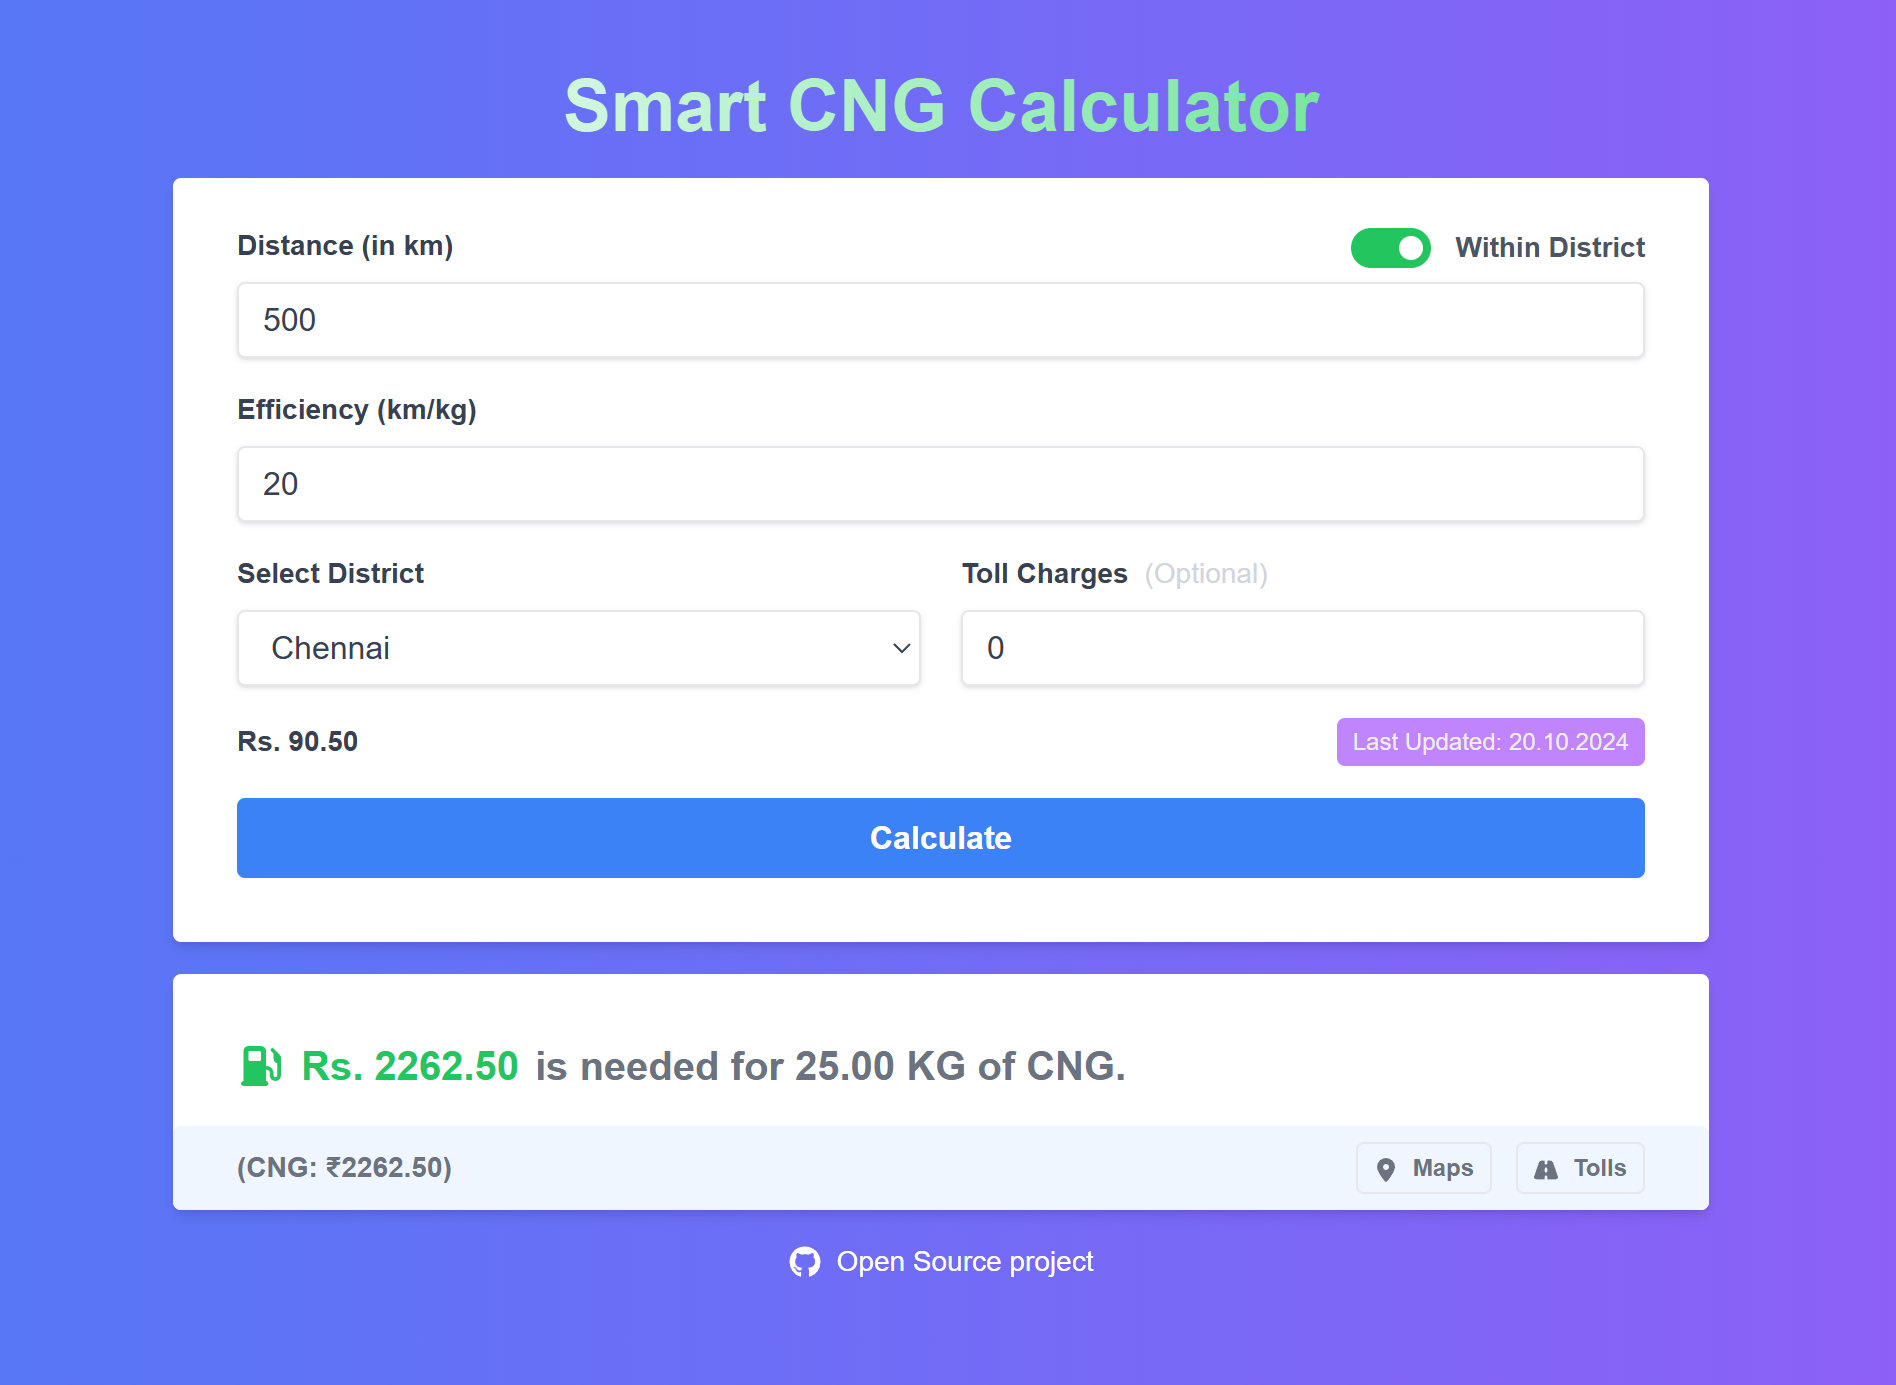
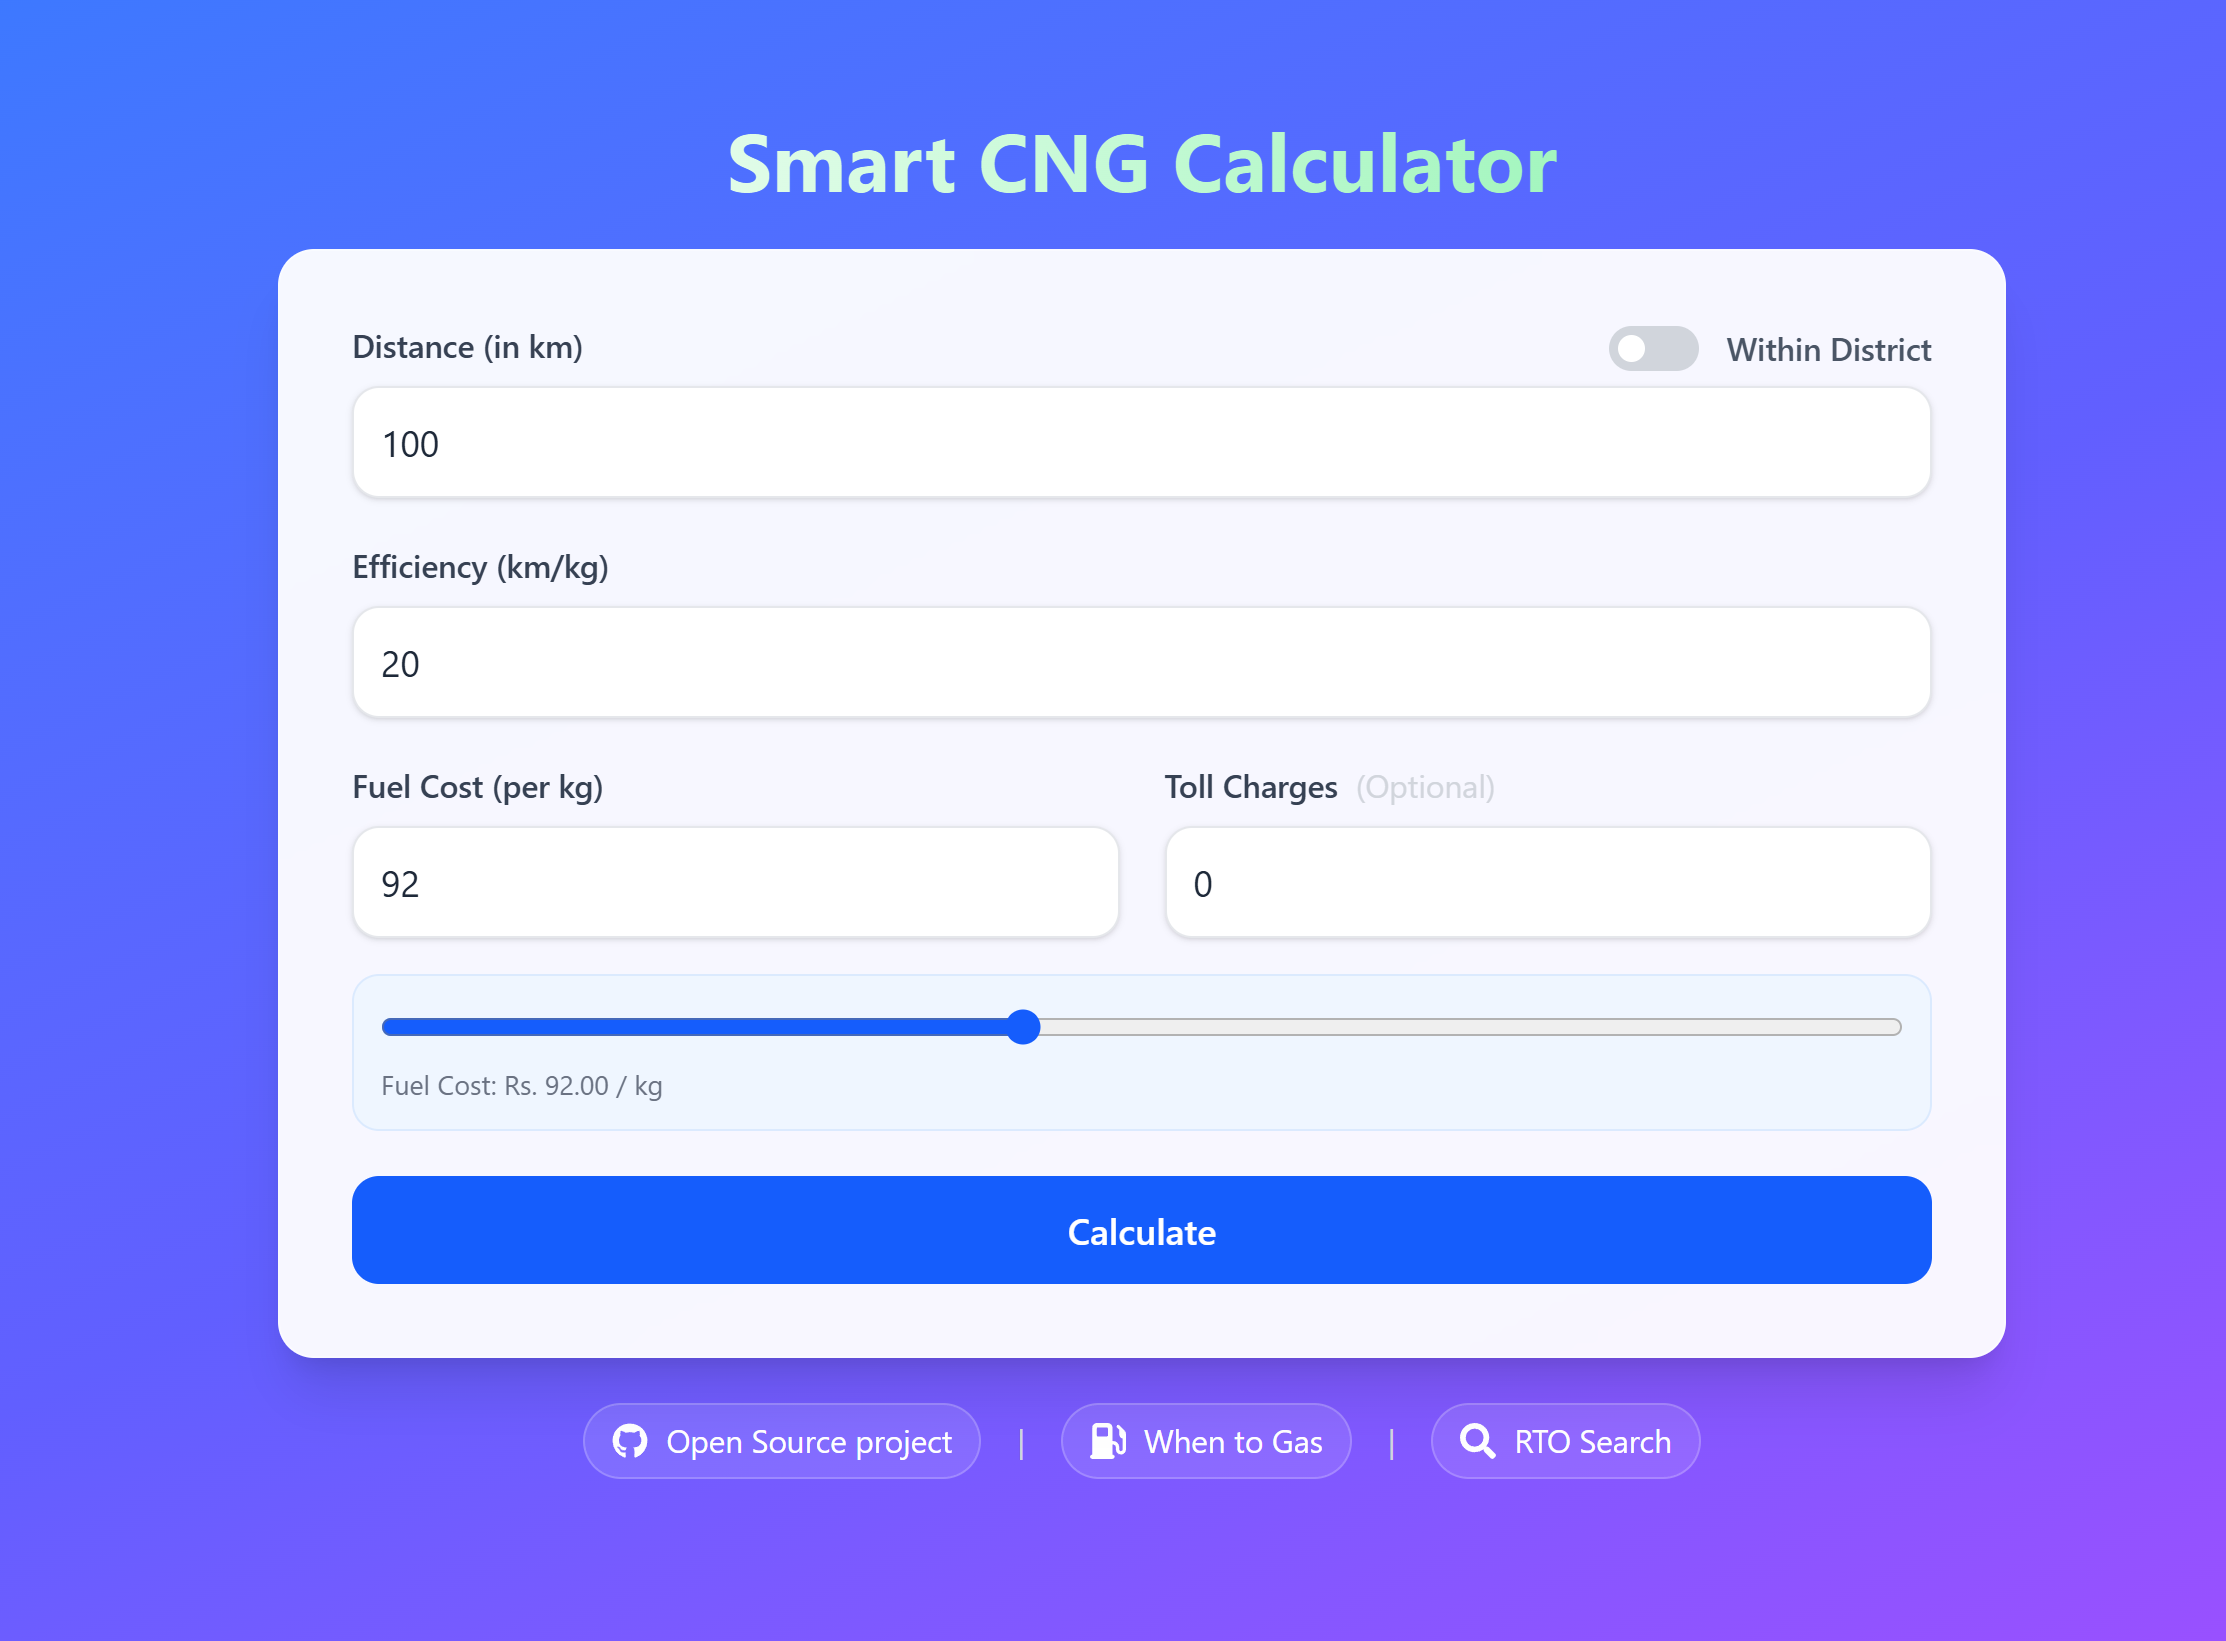
feat(readme): update core features and setup instructions
- Enhance core features section with detailed descriptions
- Revise setup instructions for clarity
- Add prerequisites and development commands

diff --git a/README.md b/README.md
@@ -1,46 +1,117 @@
 # Smart CNG Calculator
 
-Calculate your fuel efficiency easily with single click. It automates the purpose of grabing CNG cost. The application also provides a feature to select the district, which can further refine the cost calculation.
+Modern App to estimate travel fuel cost using live CNG rates, district/provider lookup, toll add-ons, and utility tools like **When to Gas** and **RTO Search**.
+
+> ### Project Live: https://smart-cng.vercel.app
 
 ## Screenshots
 
-![Screenshot 1](./screenshots/smart-cng.png)
-_Find it in seconds_
+![Main App](./screenshots/smart-cng.png)
 
-## Getting Started
+## Core Features
 
-First, run the development server:
+### Smart CNG Calculator (`/`)
+
+- Distance + efficiency based trip cost calculation
+- Toll charge support (optional)
+- Two modes:
+  - Manual fuel cost input
+  - District-based fuel cost fetch from provider APIs
+- Live provider rate lookup for:
+  - Torrent Gas
+  - AG&P (Think Gas)
+  - Megha Gas
+- Provider fetch fallback handling:
+  - If provider value is missing/invalid, app falls back to average cost (`93`)
+  - User sees a clear fallback notice in UI
+
+### When to Gas (`/when-to-gas`)
+
+- Interactive CNG point/range estimator
+- Bunk selection with "next optimal bunk" guidance
+- Distance/status visualization (Optimal Range / Too Far / Too Close)
+- One-click map navigation for bunks
+
+### RTO Search (`/rto-search`)
+
+- Modern searchable RTO directory UI
+- Search by code, city, area, office text (e.g. `TN12`, `KA-41`, city names)
+- State filter + **All States** aggregation mode
+- Supported datasets currently included:
+  - Tamil Nadu
+  - Karnataka
+  - Kerala
+  - Telangana
+  - Andhra Pradesh
+
+## API Routes
+
+### `GET /api/districts`
+
+- Reads district/provider mapping from `public/data/districts.json`
+- Returns district data used by calculator dropdown
+
+### `GET /api/cng-cost?provider=<encoded-json>`
+
+- Accepts an encoded district object containing provider + station ID
+- Fetches and parses live provider data
+- Provider-specific parsing includes:
+  - Rate extraction
+  - Last updated date (when available)
+
+## Tech Stack
+
+- Next.js (App Router)
+- React + TypeScript
+- Tailwind CSS
+- Axios + Cheerio (provider page scraping/parsing)
+
+## Setup & Run
+
+### Prerequisites
+
+- Node.js 18+ (recommended)
+- npm / pnpm / yarn / bun
+
+### Install
+
+```bash
+npm install
+```
+
+### Development
 
 ```bash
 npm run dev
-# or
-yarn dev
-# or
-pnpm dev
-# or
-bun dev
 ```
 
-Open [http://localhost:3000](http://localhost:3000) with your browser to see the result.
+Open: [http://localhost:3000](http://localhost:3000)
 
-## Features
+### Production Build
 
-- CNG/Fuel Calculation
-- Calculate the Toll charges (if given)
-- Get the CNG cost based on the district. (Supported: TorrentGas)
+```bash
+npm run build
+npm run start
+```
+
+### Lint
+
+```bash
+npm run lint
+```
+
+## Notes
+
+- Provider integrations rely on external website structure and may require parser/header updates if providers change markup.
+- SSL verification is currently bypassed in provider requests (`rejectUnauthorized: false`) for compatibility; harden this before production if possible.
 
 ## License
 
-This project is licensed under the MIT License - see the [LICENSE](LICENSE) file for details.
+This project is licensed under the MIT License. See [LICENSE](LICENSE).
 
 ## Author
 
-**Anbuselvan Annamalai**  
-[Facebook](https://facebook.com/anburocky3)  
-[LinkedIn](https://linkedin.com/in/anburocky3)
+**Anbuselvan Annamalai**
 
-## Supported platforms
-
-1. TorrentGas
-2. AGP Gas
-3. Megha Gas
+- [Facebook](https://facebook.com/anburocky3)
+- [LinkedIn](https://linkedin.com/in/anburocky3)
